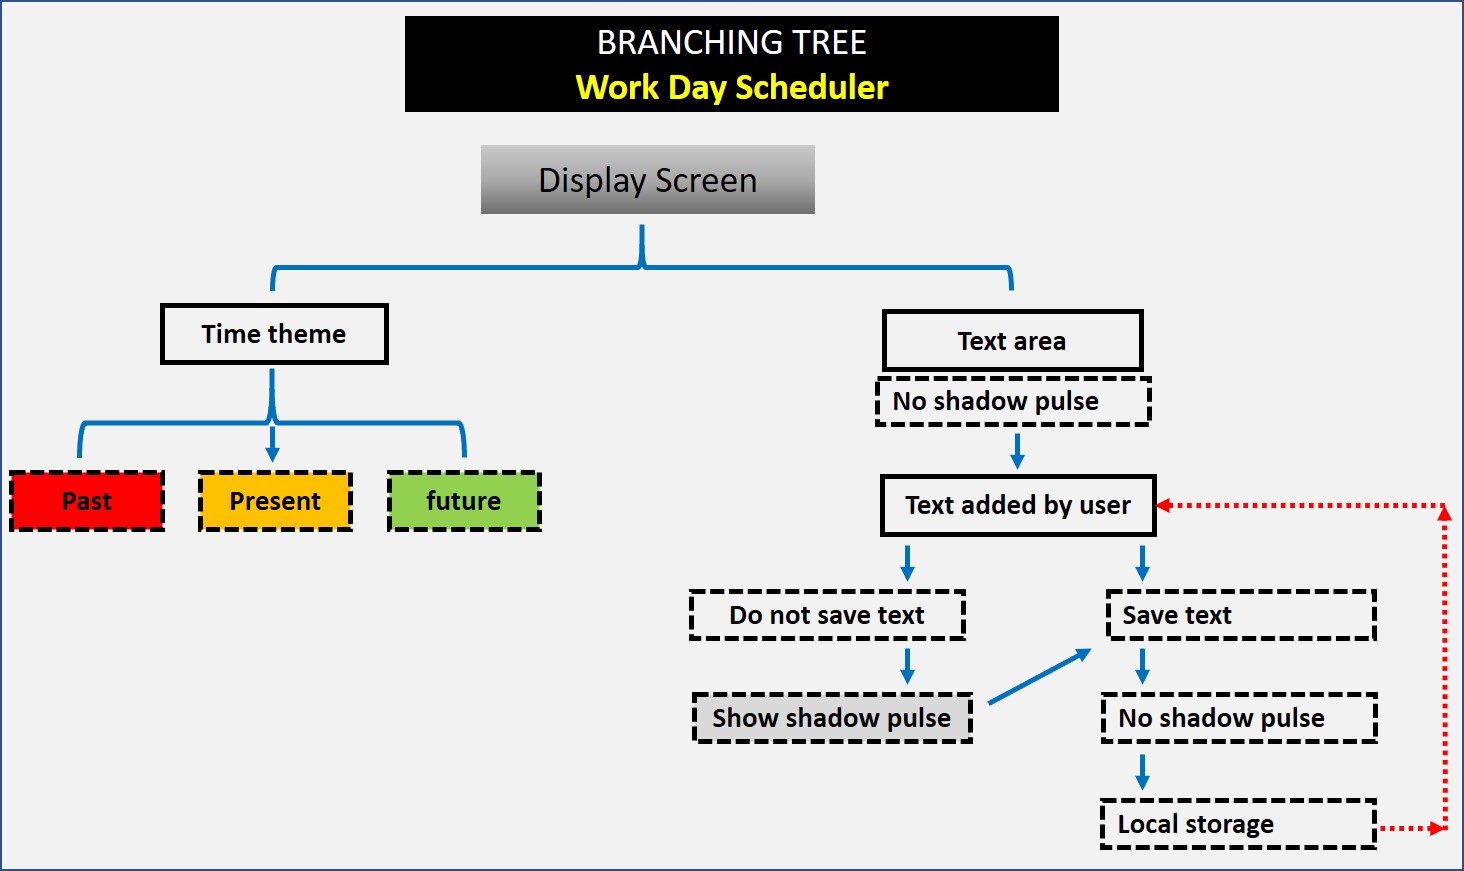
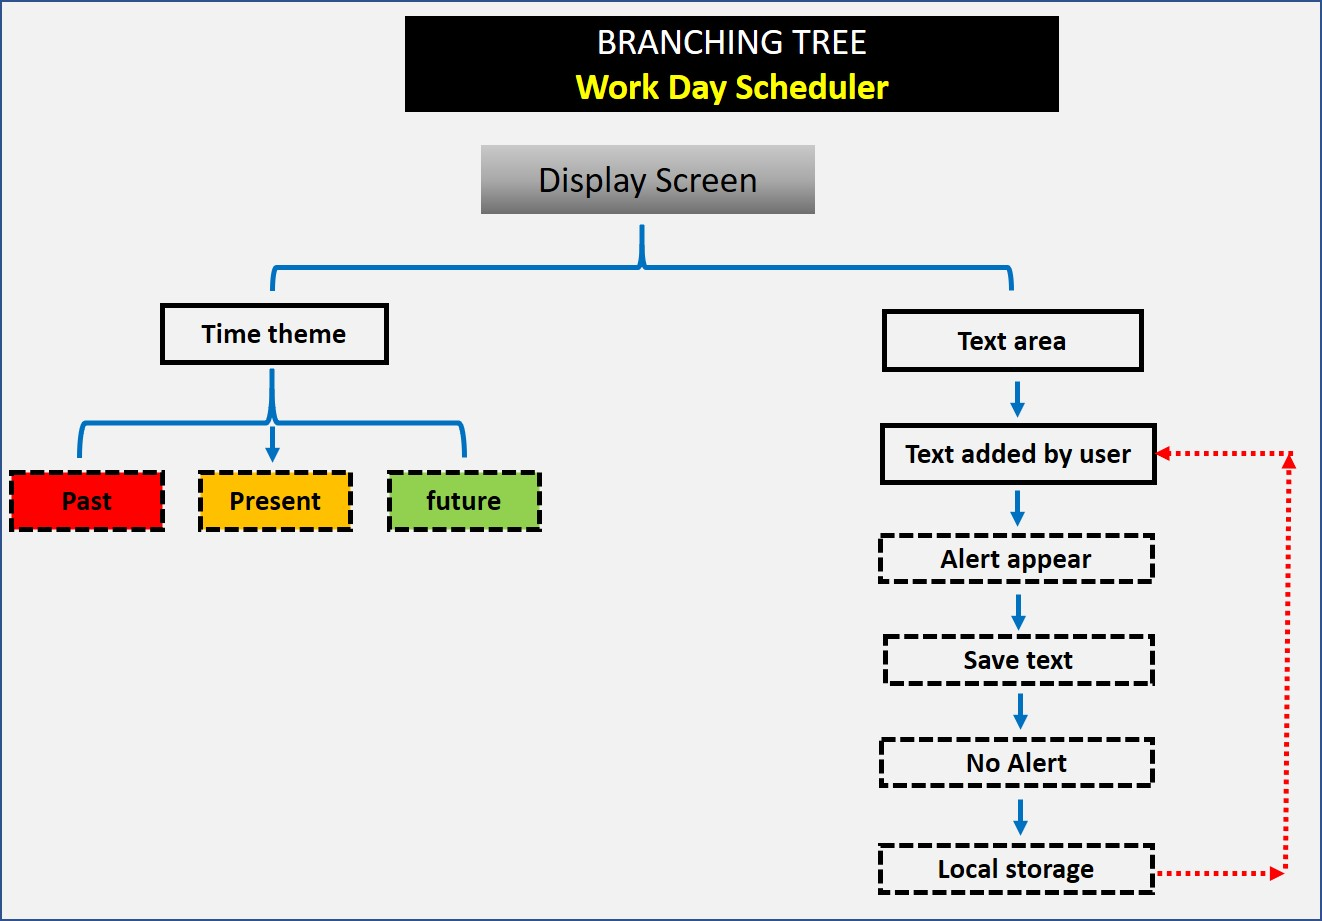
final additions

Changed region(s): [[0.0, 0.0, 0.9924, 0.992], [0.9614, 0.496, 0.9924, 0.527]]

diff --git a/script.js b/script.js
@@ -49,17 +49,19 @@ $(document).ready(function () {
     
 
     // function shadowPulseOff () {        
-        // Shadow pulse variable for turning it off to start with
-        // $(".fas").removeClass("shadowPulse");
+    // Shadow pulse variable for turning it off to start with
+    // $(".fas").removeClass("shadowPulse");
+    // $(“fas”).removeClass(“fas”)
+    // $(this).addClass(“faspulse”)
         
-        // // shadow pulse variable for turning it on after entering the data to prompt user to save
-        // var shadowPulseOn = $(".fas").addClass("shadowPulse");
+    // shadow pulse variable for turning it on after entering the data to prompt user to save
+    // var shadowPulseOn = $(".fas").addClass("shadowPulse");
         
-        // // if ("<textarea>" === ""){
-        // //     shadowPulseOff = true;
-        // // } else {
-        // //     shadowPulseOn = false;
-        // // };
+    // if ("<textarea>" === ""){
+    //     shadowPulseOff = true;
+    // } else {
+    //     shadowPulseOn = false;
+    // };
     // }
 
     // alerting the user to press the save button everytime they enter a new text or add to the existing text.
@@ -71,12 +73,12 @@ $(document).ready(function () {
     $(".saveBtn").on("click", function(){
         var userText = $(this).siblings(".description").val(); //get the nearby sibling value
         var userTime = $(this).parent().attr("id");
-        localStorage.setItem(userText, userTime);
+        localStorage.setItem(userTime, userText);
     })
 
     // get item from local storage to save in the textarea after presisng the save button
     $("#time9Am .description").val(localStorage.getItem("time9Am"));
-    $("#time10am .description").val(localStorage.getItem("time10Am"));
+    $("#time10Am .description").val(localStorage.getItem("time10Am"));
     $("#time11Am .description").val(localStorage.getItem("time11Am"));
     $("#time12Pm .description").val(localStorage.getItem("time12Pm"));
     $("#time1Pm .description").val(localStorage.getItem("time1Pm"));
